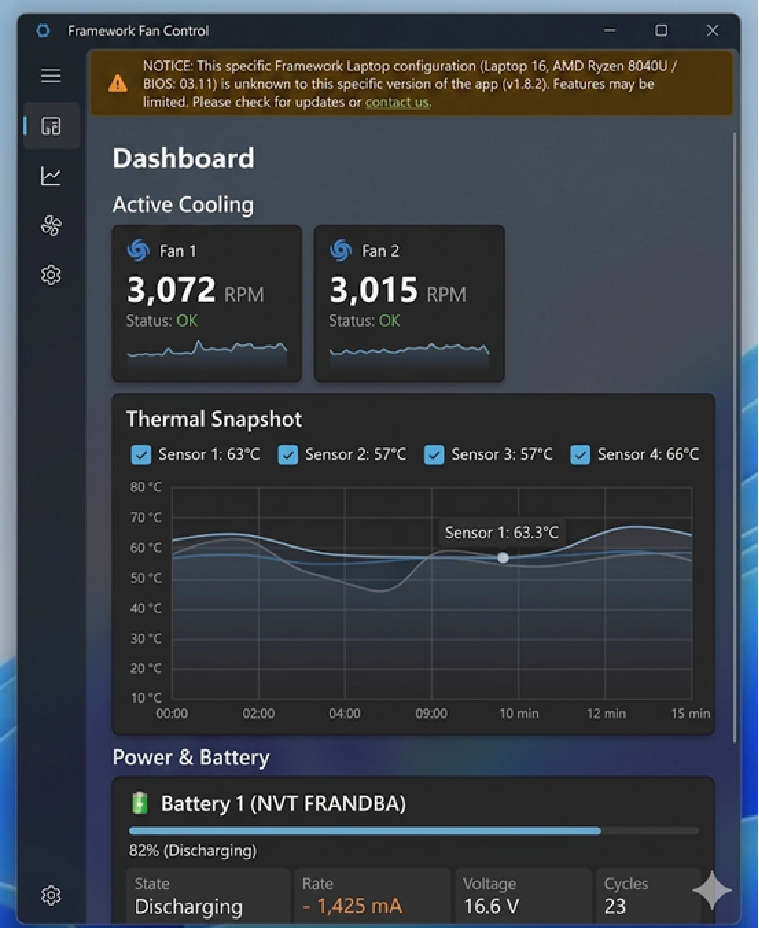
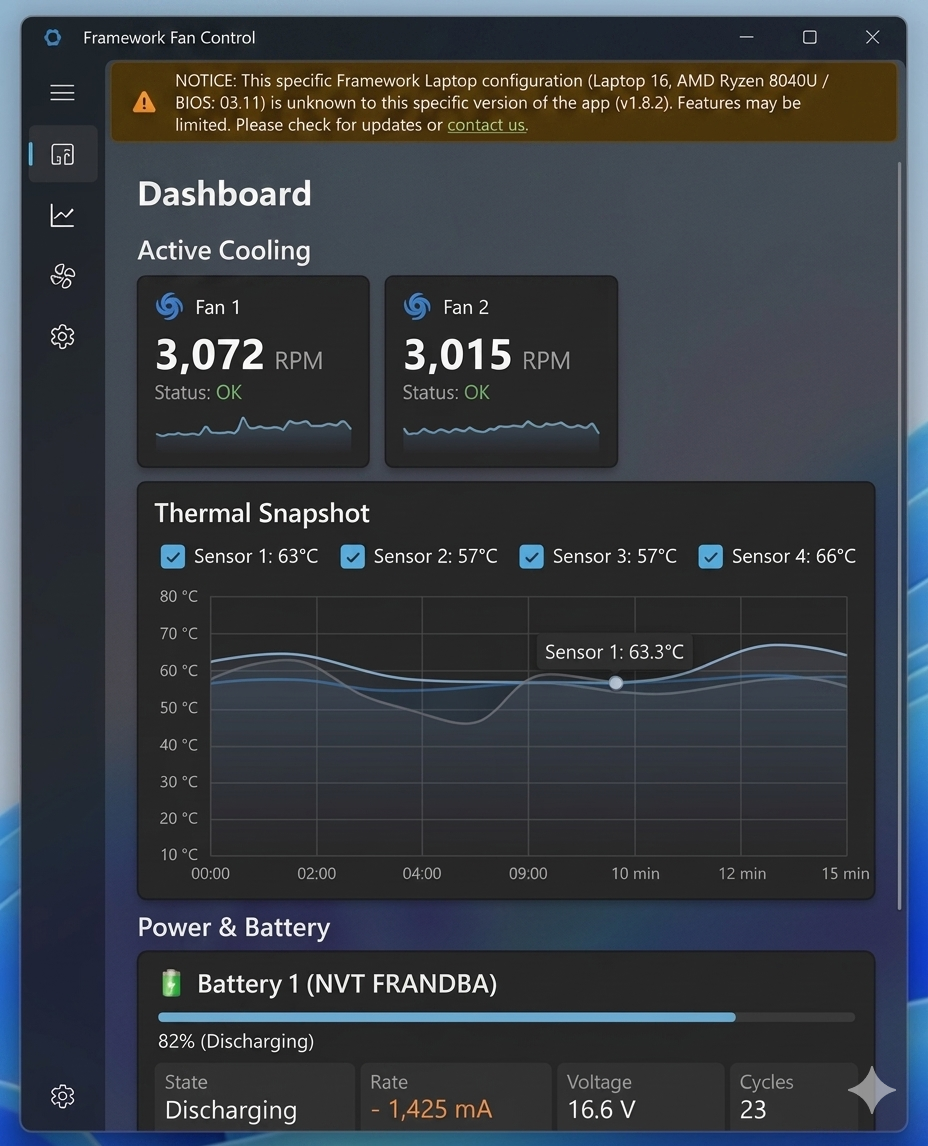
Add more design concepts and finish first coloring iteration

diff --git a/SubZeroFramework/App.xaml b/SubZeroFramework/App.xaml
@@ -23,18 +23,30 @@
 
             <SolidColorBrush x:Key="BrandPrimaryBrush" Color="#0078D7" />
             <SolidColorBrush x:Key="BrandSecondaryBrush" Color="#D7D8FF" />
-            <SolidColorBrush x:Key="BrandBackgroundBrush" Color="#5b5b5c" />
-            <SolidColorBrush x:Key="AppBackgroundBrush" Color="#1b2428" />
-            <SolidColorBrush x:Key="SidebarBackgroundBrush" Color="#13191C" />
-            <SolidColorBrush x:Key="CardBackgroundBrush" Color="#263136" />
-            <SolidColorBrush x:Key="CardHeaderBackgroundBrush" Color="#2D3A40" />
-            <SolidColorBrush x:Key="CardBorderBrush" Color="#3E4C54" />
-            <SolidColorBrush x:Key="TextPrimaryBrush" Color="#f9f9f9" />
-            <SolidColorBrush x:Key="TextSecondaryBrush" Color="#9BA7B0" />
-            <SolidColorBrush x:Key="StatusSuccessBrush" Color="#54C06A" />
-            <SolidColorBrush x:Key="StatusWarningBrush" Color="#CBA358" />
-            <SolidColorBrush x:Key="StatusErrorBrush" Color="#D15B5B" />
-            <SolidColorBrush x:Key="ControlTrackBrush" Color="#34434A" />
+            <SolidColorBrush x:Key="BrandBackgroundBrush" Color="#545454" />
+            <SolidColorBrush x:Key="BrandHoverBrush" Color="#15191B" />
+            <SolidColorBrush x:Key="BrandCheckedBrush" Color="#1c2828" />
+            <SolidColorBrush x:Key="BrandDisabledBrush" Color="#4A4C59" />
+
+            <SolidColorBrush x:Key="AppBackgroundBrush" Color="#1b2727" />
+            <SolidColorBrush x:Key="SidebarBackgroundBrush" Color="#000000" />
+
+            <SolidColorBrush x:Key="CardBackgroundBrush" Color="#2b2e2d" />
+            <SolidColorBrush x:Key="CardBorderBrush" Color="#2b2e2d" />
+            <SolidColorBrush x:Key="CardSecondaryBackgroundBrush" Color="#1f1f1f" />
+            <SolidColorBrush x:Key="CardSecondaryBorderBrush" Color="#1f1f1f" />
+
+            <SolidColorBrush x:Key="TextPrimaryBrush" Color="#fffffa" />
+            <SolidColorBrush x:Key="TextSecondaryBrush" Color="#D7D8FF" />
+
+            <SolidColorBrush x:Key="StatusSuccessBrush" Color="#6ccb5f" />
+            <SolidColorBrush x:Key="StatusSuccessForegroundBrush" Color="#000000" />
+
+            <SolidColorBrush x:Key="StatusWarningBrush" Color="#f46762" />
+            <SolidColorBrush x:Key="StatusWarningForegroundBrush" Color="#000000" />
+
+            <SolidColorBrush x:Key="StatusErrorBrush" Color="#442726" />
+            <SolidColorBrush x:Key="StatusErrorForegroundBrush" Color="#fffffa" />
 
             <!--  App Main Icon Scheme  -->
 
@@ -45,6 +57,39 @@
             <x:String x:Key="DeviceCapabilitiesMenuIcon">&#xE950;</x:String>
             <x:String x:Key="GithubMenuIcon">Github</x:String>
             <x:String x:Key="SettingsMenuIcon">&#xE713;</x:String>
+
+            <!--  App Navigation View Color Scheme  -->
+
+            <StaticResource x:Key="NavigationViewItemForeground" ResourceKey="BrandSecondaryBrush" />
+            <StaticResource x:Key="NavigationViewItemForegroundPointerOver" ResourceKey="BrandSecondaryBrush" />
+            <StaticResource x:Key="NavigationViewItemForegroundPressed" ResourceKey="BrandPrimaryBrush" />
+            <StaticResource x:Key="NavigationViewItemForegroundDisabled" ResourceKey="BrandDisabledBrush" />
+            <StaticResource x:Key="NavigationViewItemForegroundChecked" ResourceKey="BrandPrimaryBrush" />
+            <StaticResource x:Key="NavigationViewItemForegroundCheckedPointerOver" ResourceKey="BrandPrimaryBrush" />
+            <StaticResource x:Key="NavigationViewItemForegroundCheckedPressed" ResourceKey="BrandPrimaryBrush" />
+            <StaticResource x:Key="NavigationViewItemForegroundCheckedDisabled" ResourceKey="BrandDisabledBrush" />
+            <StaticResource x:Key="NavigationViewItemForegroundSelected" ResourceKey="BrandPrimaryBrush" />
+            <StaticResource x:Key="NavigationViewItemForegroundSelectedPointerOver" ResourceKey="BrandPrimaryBrush" />
+            <StaticResource x:Key="NavigationViewItemForegroundSelectedPressed" ResourceKey="BrandPrimaryBrush" />
+            <StaticResource x:Key="NavigationViewItemForegroundSelectedDisabled" ResourceKey="BrandDisabledBrush" />
+            <StaticResource x:Key="NavigationViewItemBackgroundPointerOver" ResourceKey="BrandHoverBrush" />
+            <StaticResource x:Key="NavigationViewItemBackgroundPressed" ResourceKey="BrandCheckedBrush" />
+            <StaticResource x:Key="NavigationViewItemBackgroundChecked" ResourceKey="BrandCheckedBrush" />
+            <StaticResource x:Key="NavigationViewItemBackgroundCheckedPointerOver" ResourceKey="BrandCheckedBrush" />
+            <StaticResource x:Key="NavigationViewItemBackgroundCheckedPressed" ResourceKey="BrandCheckedBrush" />
+            <StaticResource x:Key="NavigationViewItemBackgroundCheckedDisabled" ResourceKey="BrandDisabledBrush" />
+            <StaticResource x:Key="NavigationViewItemBackgroundSelected" ResourceKey="BrandCheckedBrush" />
+            <StaticResource x:Key="NavigationViewItemBackgroundSelectedPointerOver" ResourceKey="BrandCheckedBrush" />
+            <StaticResource x:Key="NavigationViewItemBackgroundSelectedPressed" ResourceKey="BrandCheckedBrush" />
+            <StaticResource x:Key="NavigationViewItemBackgroundSelectedDisabled" ResourceKey="BrandDisabledBrush" />
+            <StaticResource x:Key="NavigationViewSelectionIndicatorForeground" ResourceKey="BrandPrimaryBrush" />
+            <StaticResource x:Key="NavigationViewButtonForegroundPointerOver" ResourceKey="BrandPrimaryBrush" />
+            <StaticResource x:Key="NavigationViewButtonForegroundPressed" ResourceKey="BrandPrimaryBrush" />
+            <StaticResource x:Key="NavigationViewButtonForegroundDisabled" ResourceKey="BrandDisabledBrush" />
+            <StaticResource x:Key="NavigationViewButtonBackgroundPointerOver" ResourceKey="BrandHoverBrush" />
+            <StaticResource x:Key="NavigationViewButtonBackgroundPressed" ResourceKey="BrandCheckedBrush" />
+            <StaticResource x:Key="NavigationViewButtonBackgroundDisabled" ResourceKey="BrandDisabledBrush" />
+            <StaticResource x:Key="NavigationViewContentBackground" ResourceKey="AppBackgroundBrush" />
 
             <!--  Add resources here  -->
 

diff --git a/SubZeroFramework/Presentation/MainPage.xaml b/SubZeroFramework/Presentation/MainPage.xaml
@@ -7,45 +7,48 @@
     xmlns:local="using:SubZeroFramework.Presentation"
     xmlns:uen="using:Uno.Extensions.Navigation.UI"
     xmlns:utu="using:Uno.Toolkit.UI"
-    Background="{ThemeResource ApplicationPageBackgroundThemeBrush}"
+    Background="{StaticResource AppBackgroundBrush}"
     NavigationCacheMode="Required">
     <ScrollViewer IsTabStop="True">
         <Grid utu:SafeArea.Insets="VisibleBounds">
             <NavigationView
+                Background="{StaticResource SidebarBackgroundBrush}"
                 IsBackButtonVisible="Collapsed"
                 IsBackEnabled="False"
-                IsSettingsVisible="False">
+                IsSettingsVisible="False"
+                PaneTitle="Options">
                 <NavigationView.MenuItems>
                     <NavigationViewItem
                         Content="Dashboard"
                         Icon="{len:FontIconStringExt Glyph={StaticResource DashboardMenuIcon}}"
-                        Tag="SamplePage1" />
+                        IsSelected="True"
+                        Tag="Dashboard" />
                     <NavigationViewItem
                         Content="Thermal Telemetry"
                         Icon="{len:FontIconStringExt Glyph={StaticResource ThermalTelemetryMenuIcon}}"
-                        Tag="SamplePage2" />
+                        Tag="ThermalTelemetry" />
                     <NavigationViewItem
                         Content="Power Telemetry"
                         Icon="{len:FontIconStringExt Glyph={StaticResource PowerTelemetryMenuIcon}}"
-                        Tag="SamplePage3" />
+                        Tag="PowerTelemetry" />
                     <controls:NavigationMaterialViewItem
                         MaterialIconKindName="{StaticResource FanCurveMenuIcon}"
-                        Tag="SamplePage4"
+                        Tag="FanCurve"
                         Text="Fan Curve" />
                     <NavigationViewItem
                         Content="Device Capabilities"
                         Icon="{len:FontIconStringExt Glyph={StaticResource DeviceCapabilitiesMenuIcon}}"
-                        Tag="SamplePage4" />
+                        Tag="DeviceCapabilities" />
                 </NavigationView.MenuItems>
                 <NavigationView.FooterMenuItems>
                     <controls:NavigationMaterialViewItem
                         MaterialIconKindName="{StaticResource GithubMenuIcon}"
-                        Tag="SamplePage4"
+                        Tag="Github"
                         Text="Project Github" />
                     <NavigationViewItem
                         Content="Settings"
                         Icon="{len:FontIconStringExt Glyph={StaticResource SettingsMenuIcon}}"
-                        Tag="SamplePage5" />
+                        Tag="Settings" />
                 </NavigationView.FooterMenuItems>
                 <Frame x:Name="contentFrame" />
             </NavigationView>

diff --git a/SubZeroFramework/Presentation/Shell.xaml b/SubZeroFramework/Presentation/Shell.xaml
@@ -9,14 +9,14 @@
     d:DesignHeight="300"
     d:DesignWidth="400"
     mc:Ignorable="d">
-    <Border Background="#5b5b5c">
+    <Border Background="{StaticResource BrandBackgroundBrush}">
         <utu:ExtendedSplashScreen
             x:Name="Splash"
             HorizontalAlignment="Stretch"
             VerticalAlignment="Stretch"
             HorizontalContentAlignment="Stretch"
             VerticalContentAlignment="Stretch"
-            Background="#5b5b5c">
+            Background="{StaticResource BrandBackgroundBrush}">
             <utu:ExtendedSplashScreen.LoadingContent>
                 <Grid>
                     <Grid.RowDefinitions>

diff --git a/SubZeroFramework/Extensions/FontIconStringExt.cs b/SubZeroFramework/Extensions/FontIconStringExt.cs
@@ -63,11 +63,30 @@ public sealed class FontIconStringExt : MarkupExtension
             Glyph = string.IsNullOrWhiteSpace(Glyph) ? throw new ArgumentException("The glyph string must not be null, empty, or whitespace.", nameof(Glyph)) : Glyph
         };
 
-        result.FontSize = IconSize ?? result.FontSize;
-        result.Foreground = IconForeground ?? result.Foreground;
-        result.FontFamily = IconFontFamily ?? result.FontFamily;
-        result.VerticalAlignment = VerticalAlignment ?? result.VerticalAlignment;
-        result.HorizontalAlignment = HorizontalAlignment ?? result.HorizontalAlignment;
+        if (IconForeground is not null)
+        {
+            result.Foreground = IconForeground;
+        }
+
+        if (IconSize is not null)
+        {
+            result.FontSize = IconSize.Value;
+        }
+
+        if (IconFontFamily is not null)
+        {
+            result.FontFamily = IconFontFamily;
+        }
+
+        if (VerticalAlignment is not null)
+        {
+            result.VerticalAlignment = VerticalAlignment.Value;
+        }
+
+        if (HorizontalAlignment is not null)
+        {
+            result.HorizontalAlignment = HorizontalAlignment.Value;
+        }
 
         return result;
     }

diff --git a/SubZeroFramework/Extensions/MaterialIconStringExt.cs b/SubZeroFramework/Extensions/MaterialIconStringExt.cs
@@ -82,11 +82,26 @@ public sealed class MaterialIconStringExt : MarkupExtension
             Animation = Animation,
         };
 
-        result.Height = IconSize ?? result.Height;
-        result.Width = IconSize ?? result.Width;
-        result.Foreground = IconForeground ?? result.Foreground;
-        result.VerticalAlignment = VerticalAlignment ?? result.VerticalAlignment;
-        result.HorizontalAlignment = HorizontalAlignment ?? result.HorizontalAlignment;
+        if (IconSize is not null)
+        {
+            result.Height = IconSize.Value;
+            result.Width = IconSize.Value;
+        }
+
+        if (IconForeground is not null)
+        {
+            result.Foreground = IconForeground;
+        }
+
+        if (VerticalAlignment is not null)
+        {
+            result.VerticalAlignment = VerticalAlignment.Value;
+        }
+
+        if (HorizontalAlignment is not null)
+        {
+            result.HorizontalAlignment = HorizontalAlignment.Value;
+        }
 
         return result;
     }

diff --git a/SubZeroFramework/App.xaml.cs b/SubZeroFramework/App.xaml.cs
@@ -1,7 +1,6 @@
 using System.Diagnostics.CodeAnalysis;
 
 using FrameworkDotnet;
-using FrameworkDotnet.Enums;
 using FrameworkDotnet.Interfaces;
 
 using SubZeroFramework.Services;